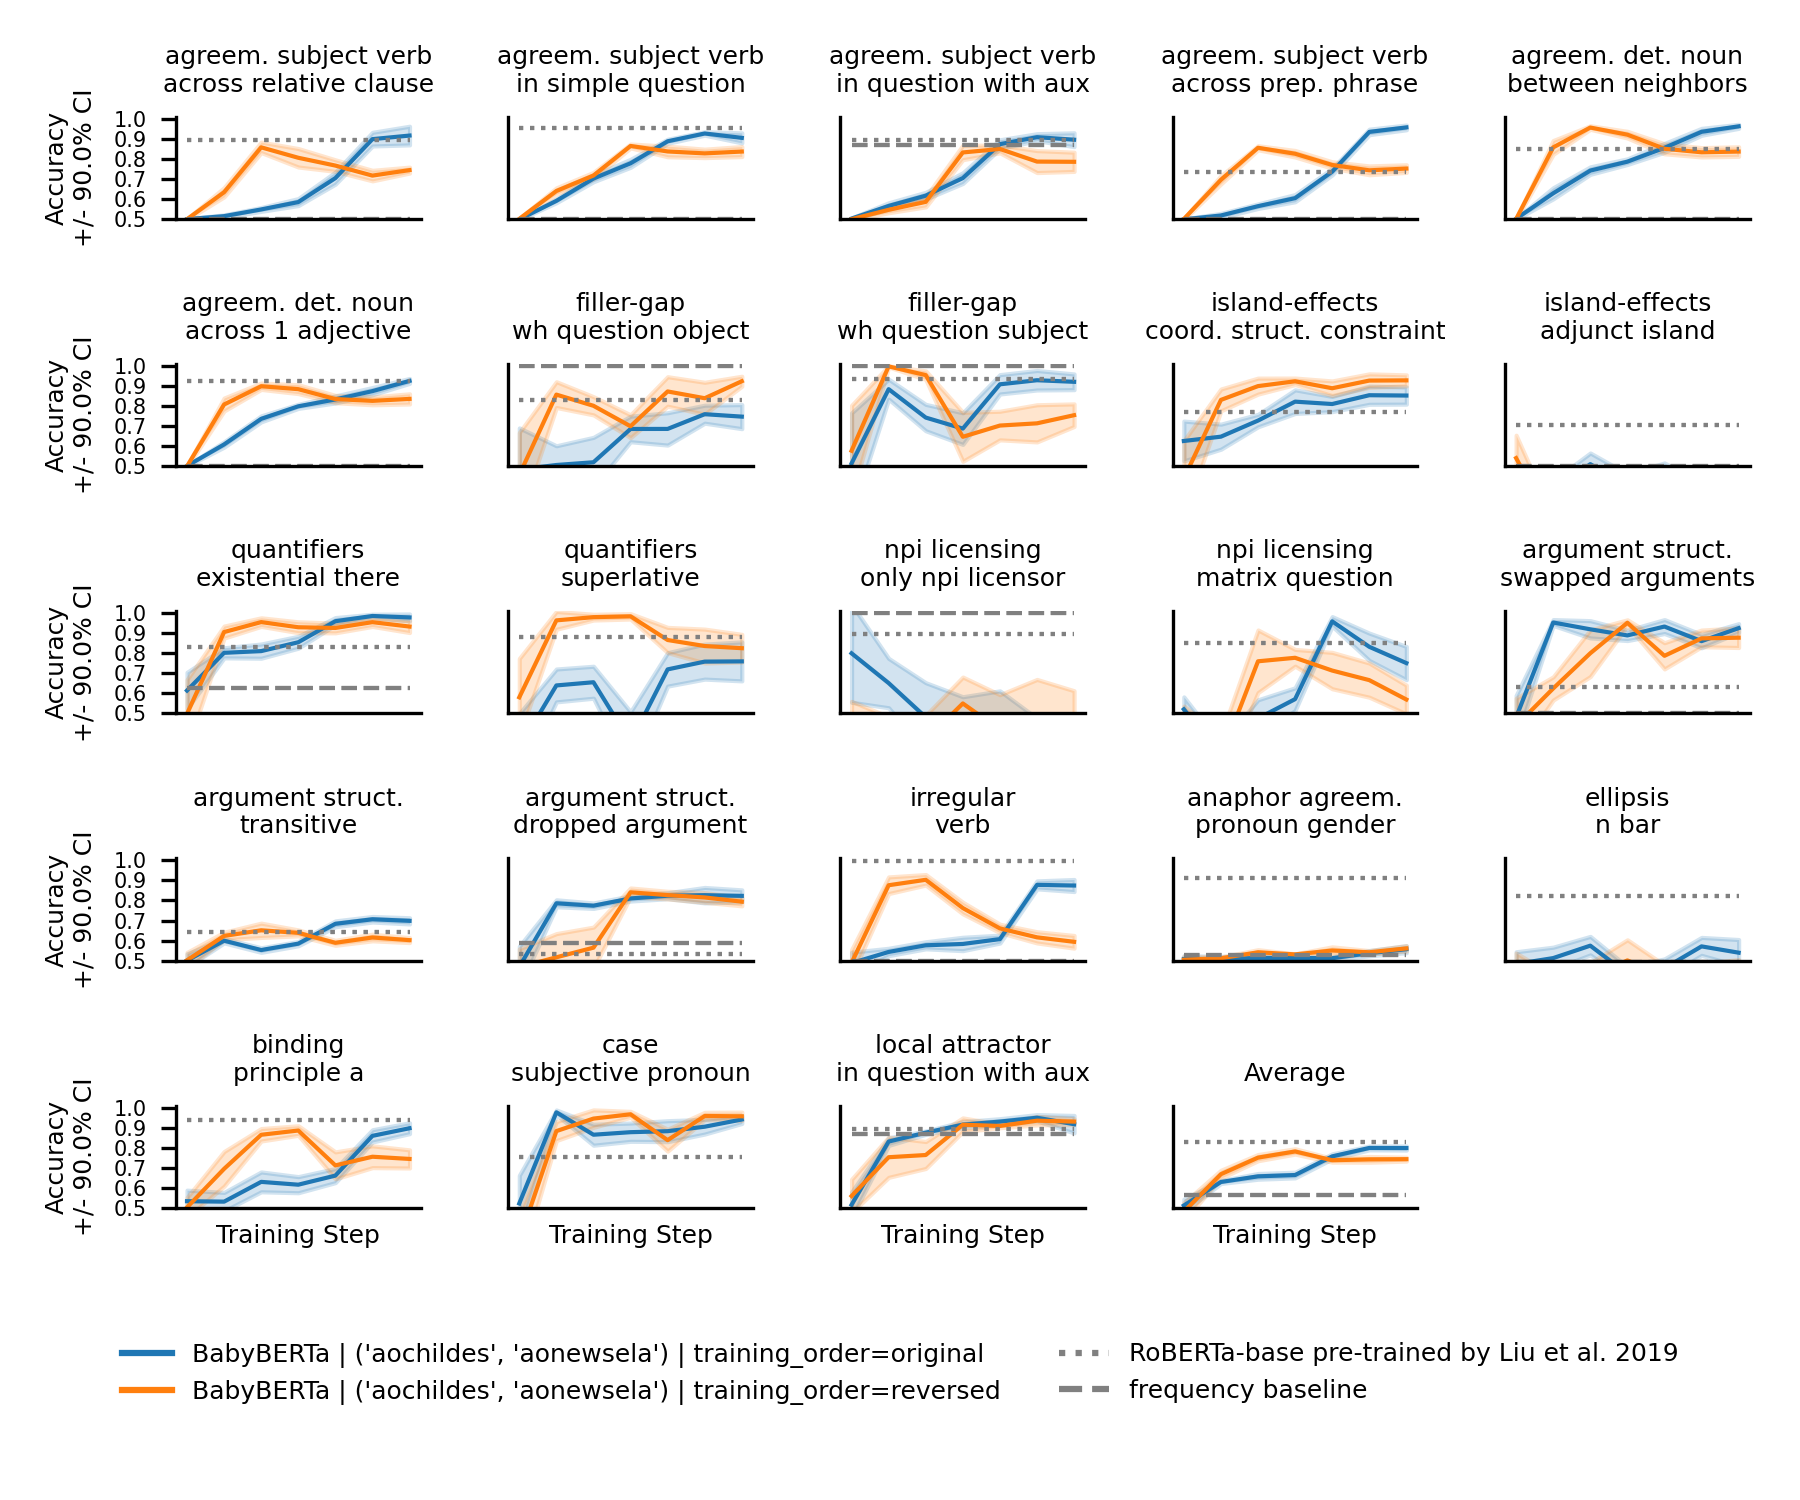
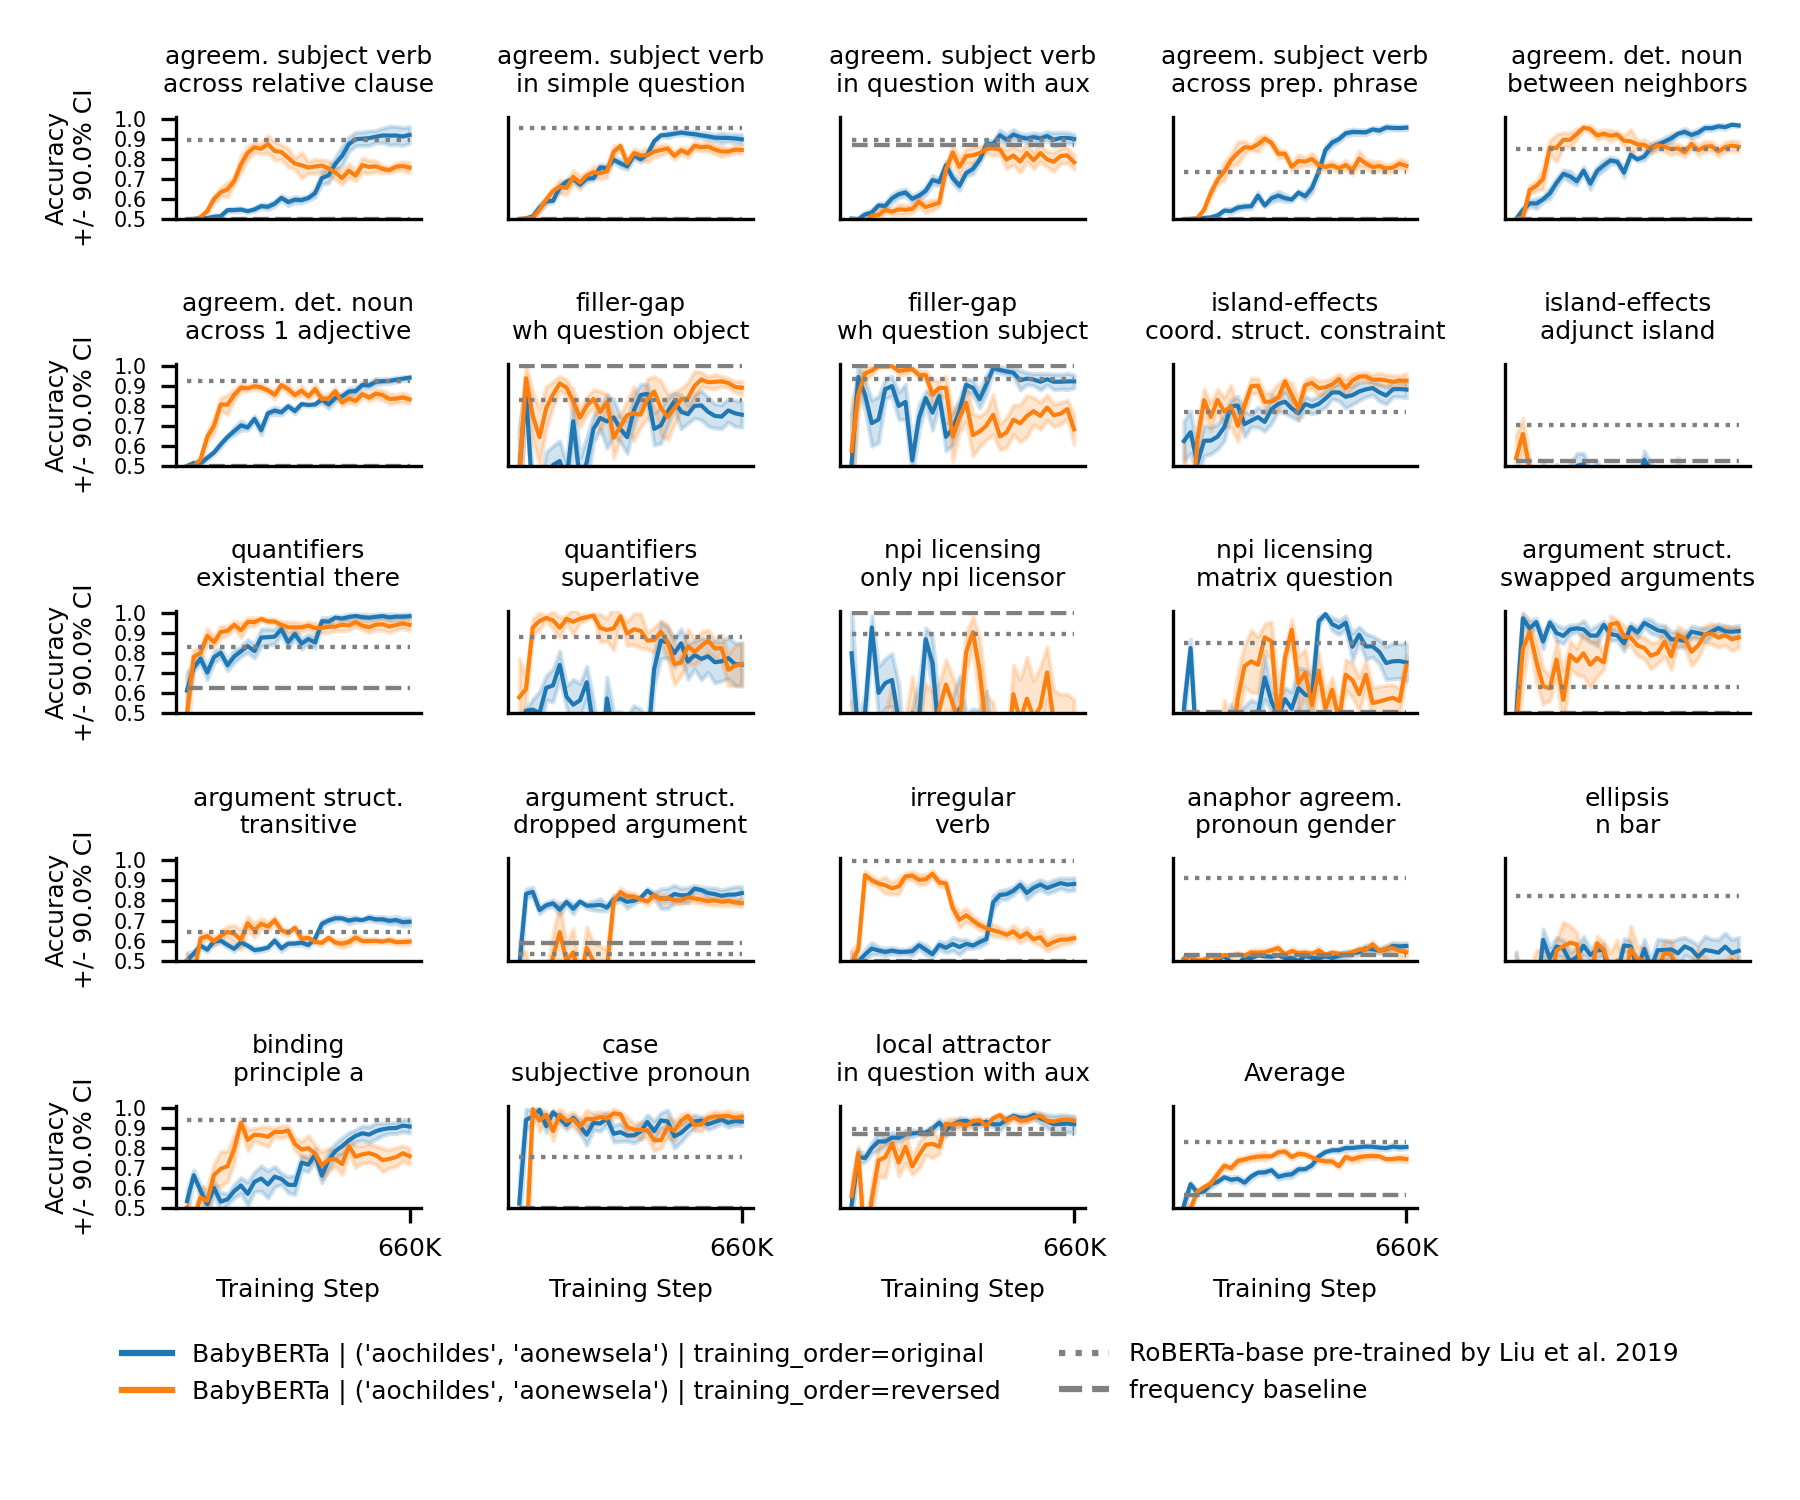
add more images

diff --git a/zorro/visualizer.py b/zorro/visualizer.py
@@ -271,10 +271,11 @@ class VisualizerLines(VisualizerBase):
                                         for rep, curves_by_pd in rep2curves_by_pd.items()}
             curves = np.array([rep2curve_avg_across_pds[rep] for rep in rep2curve_avg_across_pds])  # one for each rep
 
-            # plot averages for BabyBERTa
             color = f'C{self.pds[0].group_names.index(gn)}'
-            y = np.array(curves).mean(axis=0)
             x = np.arange(0, self.last_step + self.step_size, self.step_size)
+
+            # plot averages for BabyBERTa
+            y = np.array(curves).mean(axis=0)
             ax.plot(x, y, linewidth=self.line_width, color=color)
 
             # plot average for RoBERTa-base

diff --git a/scripts/plot_accuracy_curve.py b/scripts/plot_accuracy_curve.py
@@ -8,7 +8,7 @@ from zorro.io import get_group2model_output_paths
 from zorro.visualizer import VisualizerLines, ParadigmDataLines
 
 EXPERIMENT: str = 'age-order-exp'
-STEP_SIZE: int = 100_000
+STEP_SIZE: int = 20_000
 
 if EXPERIMENT == 'exp1':
     param_names = [f'param_{i:03}' for i in [1, 4]]
@@ -33,7 +33,7 @@ elif EXPERIMENT == 'exp4b':
     conditions = ['leave_unmasked_prob', ]
 
 elif EXPERIMENT == 'age-order-exp':
-    param_names = [f'param_{i:03}' for i in [14, 15]]
+    param_names = [f'param_{i:03}' for i in [12, 13]]
     conditions = ['corpora', 'training_order']
 
 else:
